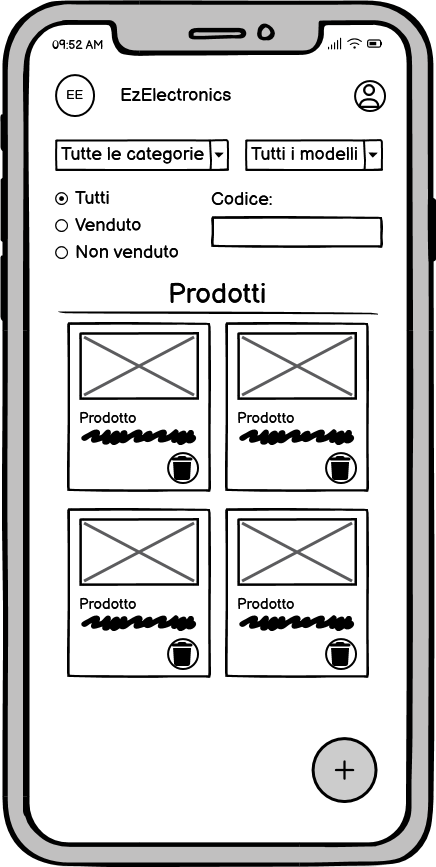
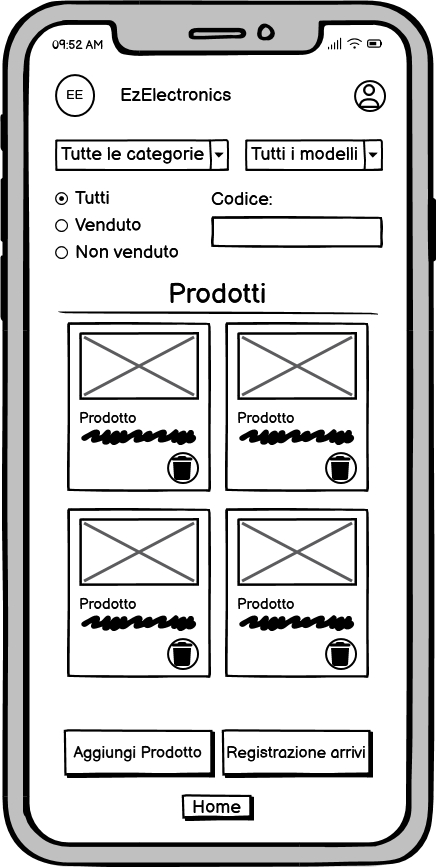
Correzione bottoni GUI V1

Changed region(s): [[0.1193, 0.8408, 0.8647, 0.9654]]

diff --git a/GUIPrototypeV1.md b/GUIPrototypeV1.md
@@ -4,7 +4,7 @@ Authors: Alessandra Cicciarelli, Filippo Forte, Giulio Arecco, Riccardo Daniele 
 
 Date: 21/04/2024
 
-Version: 1.3
+Version: 1.6
 
 ## Pagina Principale
 
